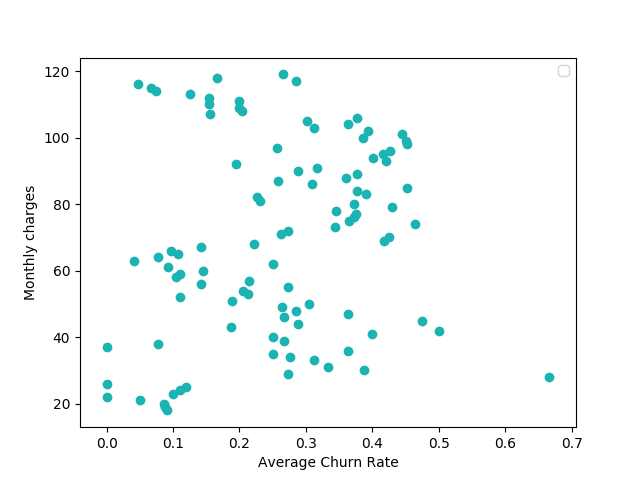
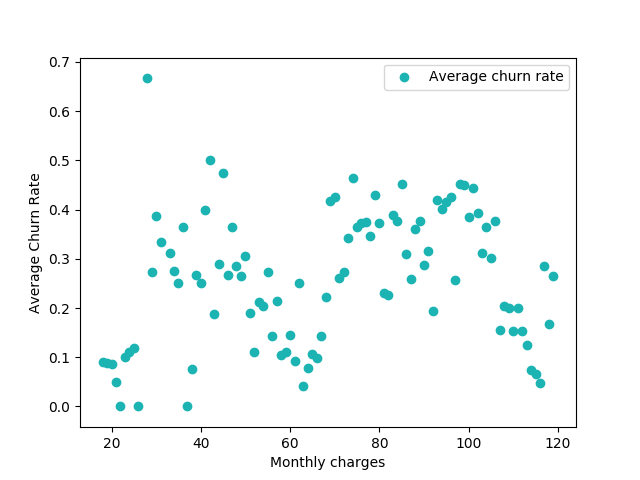
swapping x and y labels for graphs

diff --git a/univariateAnalysis.py b/univariateAnalysis.py
@@ -55,10 +55,10 @@ def plotting_KDE_plot_for_columns(names_list, df, bandwidth):
     data_for_KDE.plot.kde(bw_method=bandwidth)
     plt.show()
 
-#
-# path = "TelcoCustomerChurn.csv"
-# df = data_preprocessing(load_data(path))
-# names_to_drop = ['tenure', 'MonthlyCharges', 'TotalCharges', 'customerID']
+
+path = "TelcoCustomerChurn.csv"
+df = data_preprocessing(load_data(path))
+names_to_drop = ['tenure', 'MonthlyCharges', 'TotalCharges', 'customerID']
 # frequency_measure_visualized(df, names_to_drop)
 
 # names_to_plot = ['tenure', 'MonthlyCharges', 'TotalCharges']
@@ -85,16 +85,16 @@ def plotting_KDE_plot_for_columns(names_list, df, bandwidth):
 
 # plotting the churn rate with respect to the bins one by one -> done for both continous variables
 # also this should be run before standardizing the data
-# tenure_bin_split = explicative_structure_table_with_bins('tenure', df, [i for i in range(73)])
-# plt.scatter([i for i in range(73)], tenure_bin_split.iloc[:, 2], c=(0.11, 0.7, 0.7))
-# plt.xlabel("Average churn rate")
-# plt.ylabel("Tenure")
-# plt.legend(loc='upper right')
-# plt.show()
-#
-# monthly_bin_split = explicative_structure_table_with_bins('MonthlyCharges', df, [i for i in range(120)])
-# plt.scatter(monthly_bin_split.iloc[:, 2], [i for i in range(120)], c=(0.11, 0.7, 0.7))
-# plt.xlabel("Average Churn Rate")
-# plt.ylabel("Monthly charges")
-# plt.legend(loc='upper right')
-# plt.show()
+tenure_bin_split = explicative_structure_table_with_bins('tenure', df, [i for i in range(73)])
+plt.scatter([i for i in range(73)], tenure_bin_split.iloc[:, 2], c=(0.11, 0.7, 0.7))
+plt.ylabel("Average churn rate")
+plt.xlabel("Tenure")
+plt.legend(loc='upper right')
+plt.show()
+
+monthly_bin_split = explicative_structure_table_with_bins('MonthlyCharges', df, [i for i in range(120)])
+plt.scatter([i for i in range(120)], monthly_bin_split.iloc[:, 2], c=(0.11, 0.7, 0.7))
+plt.ylabel("Average Churn Rate")
+plt.xlabel("Monthly charges")
+plt.legend(loc='upper right')
+plt.show()

diff --git a/main.py b/main.py
@@ -64,15 +64,15 @@ def main():
     # also this should be run before standardizing the data
     tenure_bin_split = explicative_structure_table_with_bins('tenure', df, [i for i in range(73)])
     plt.scatter([i for i in range(73)], tenure_bin_split.iloc[:, 2], c=(0.11, 0.7, 0.7))
-    plt.xlabel("Average churn rate")
-    plt.ylabel("Tenure")
+    plt.ylabel("Average churn rate")
+    plt.xlabel("Tenure")
     plt.legend(loc='upper right')
     plt.show()
 
     monthly_bin_split = explicative_structure_table_with_bins('MonthlyCharges', df, [i for i in range(120)])
-    plt.scatter(monthly_bin_split.iloc[:, 2], [i for i in range(120)], c=(0.11, 0.7, 0.7))
-    plt.xlabel("Average Churn Rate")
-    plt.ylabel("Monthly charges")
+    plt.scatter([i for i in range(120)], monthly_bin_split.iloc[:, 2], c=(0.11, 0.7, 0.7))
+    plt.ylabel("Average Churn Rate")
+    plt.xlabel("Monthly charges")
     plt.legend(loc='upper right')
     plt.show()
 
